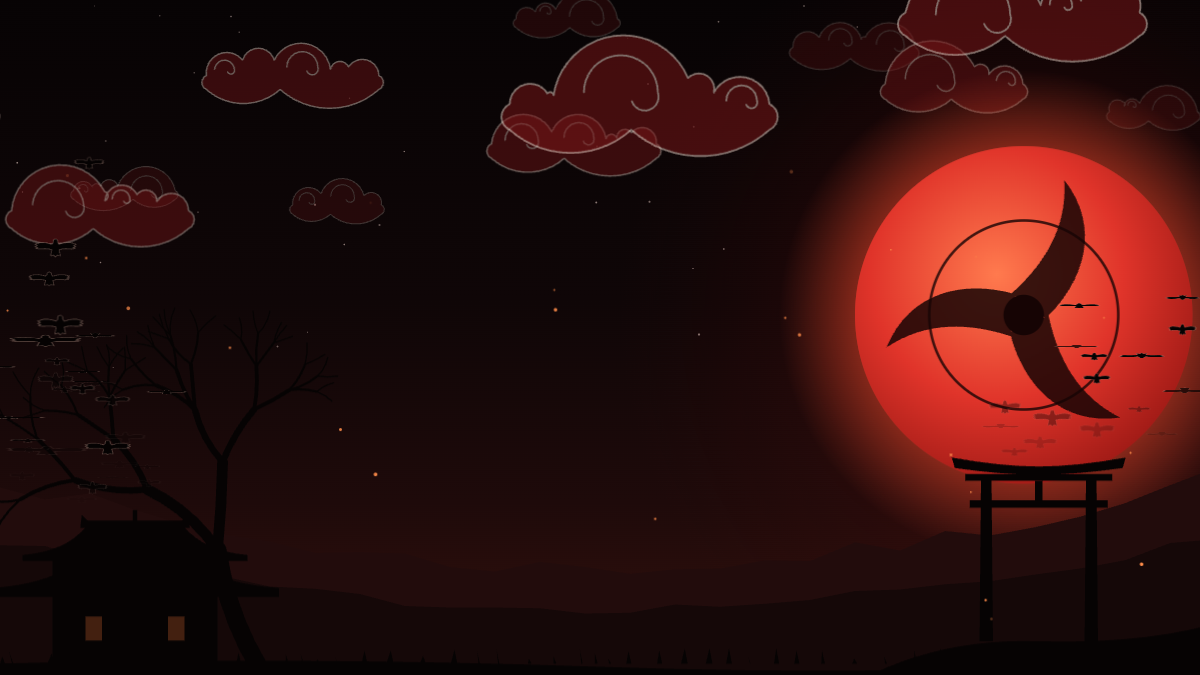
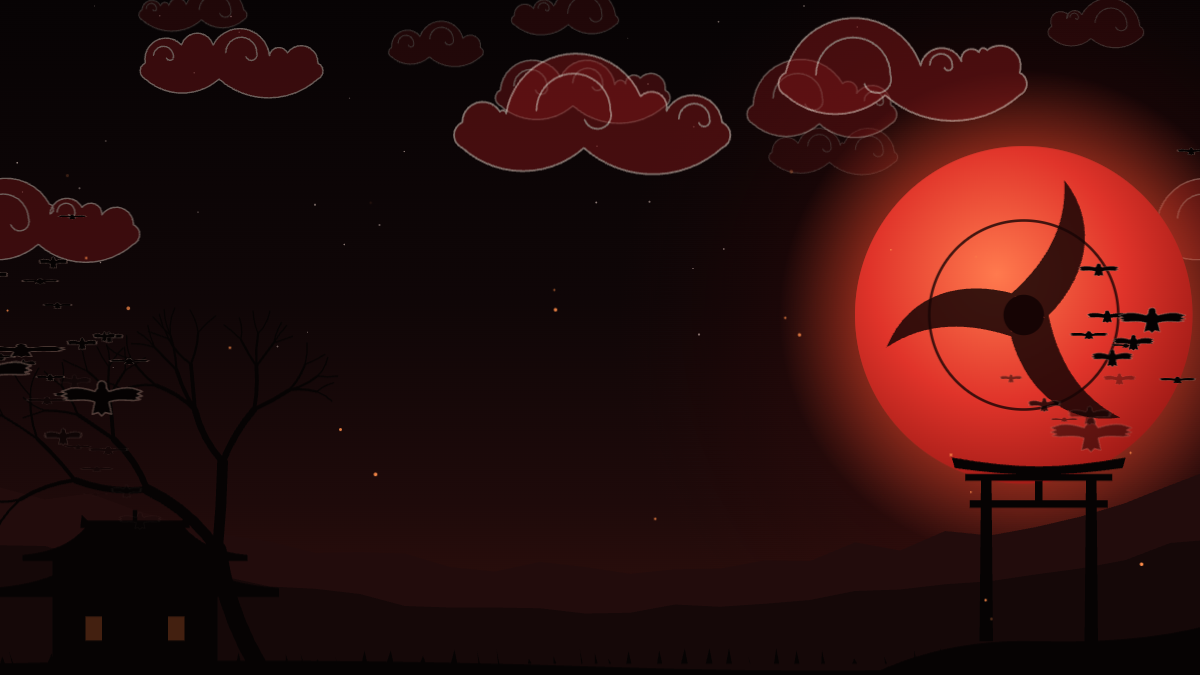
akatsuki-night: embers keep their sway, clouds stay inside the loop, crows take off from their perches

diff --git a/mods/akatsuki-night/hooks/scene/crows.ts b/mods/akatsuki-night/hooks/scene/crows.ts
@@ -6,7 +6,8 @@
 // Desktop limit: a swarm that moved birds with scale() inside path keyframes, cubic-bezier
 // easing or fill-mode `both` froze the whole scene in the desktop app while Chrome played
 // it fine. These move by translate/opacity keyframes with keyword easing only; the
-// wingbeat's scaleY sits on its own element.
+// wingbeat's scaleY sits on its own element, and never flattens past a third, so a small
+// crow mid-beat still reads as a bird and not a dash.
 
 import { seeded, type Random } from './random.js'
 
@@ -47,13 +48,14 @@ export function perched(perches: Point[], leave?: number): { css: string; animat
   }
 }
 
-function keyframes(name: string, points: Point[], at: (n: number) => number): string {
+// Fades in from the first point and out at the last, unless `seen` says it starts in view.
+function keyframes(name: string, points: Point[], at: (n: number) => number, seen = false): string {
   return (
     `@keyframes ${name}{` +
     points
       .map(([x, y], n) => {
-        const edge = n === 0 || n === points.length - 1
-        return `${at(n).toFixed(1)}%{transform:translate(${Math.round(x)}px,${Math.round(y)}px);opacity:${edge ? 0 : 1}}`
+        const hidden = (n === 0 && !seen) || n === points.length - 1
+        return `${at(n).toFixed(1)}%{transform:translate(${Math.round(x)}px,${Math.round(y)}px);opacity:${hidden ? 0 : 1}}`
       })
       .join('')
   )
@@ -75,7 +77,7 @@ export function flock(seed: number, perches: Point[], after: number): Flock {
   let css =
     '.crow{opacity:0}' +
     '.beat{animation:beat .2s ease-in-out infinite alternate;transform-box:fill-box;transform-origin:center}' +
-    '@keyframes beat{0%{transform:scaleY(1)}100%{transform:scaleY(-.3)}}'
+    '@keyframes beat{0%{transform:scaleY(1)}100%{transform:scaleY(.35)}}'
   for (let w = 0; w < WOBBLES; w++) {
     const a = Math.round(r.pick(4, 10))
     const b = Math.round(r.pick(4, 12))
@@ -84,14 +86,17 @@ export function flock(seed: number, perches: Point[], after: number): Flock {
       `50%{transform:translate(-${b}px,${a}px)}75%{transform:translate(${b}px,${a}px)}100%{transform:translate(0px,0px)}}`
   }
 
-  // The burst: every crow lifts off near a perch and climbs away, fanning outward.
+  // The burst: every crow lifts off near a perch and climbs away, fanning outward. The
+  // first one from each perch is the crow that sat there: it leaves from the spot, in full
+  // view, the moment the sitting crow vanishes, so the perches never look empty first.
   const count = Math.round(r.pick(44, 60))
   let svg = ''
   let i = 0
   for (; i < count; i++) {
     const [px, py] = perches[i % perches.length]!
-    const sx = px + r.pick(-40, 40)
-    const sy = py + r.pick(-30, 10)
+    const sitter = i < perches.length
+    const sx = sitter ? px : px + r.pick(-40, 40)
+    const sy = sitter ? py - 10 : py + r.pick(-30, 10)
     // Up and away from the middle, so the chat column clears first.
     const away = sx < 800 ? -1 : 1
     const angle = -Math.PI / 2 + away * r.pick(0.05, 0.95) + r.pick(-0.25, 0.25)
@@ -99,7 +104,7 @@ export function flock(seed: number, perches: Point[], after: number): Flock {
     const ex = sx + Math.cos(angle) * far
     const ey = sy + Math.sin(angle) * far
     const close = r.next() < 0.12
-    const size = close ? r.pick(1.8, 2.6) : r.pick(0.65, 1.35)
+    const size = sitter ? 0.85 : close ? r.pick(1.8, 2.6) : r.pick(0.65, 1.35)
     const duration = close ? r.pick(1.8, 2.6) : r.pick(2.8, 5)
     const path: Point[] = [
       [sx, sy],
@@ -107,8 +112,9 @@ export function flock(seed: number, perches: Point[], after: number): Flock {
       [sx + (ex - sx) * 0.55 + r.pick(-140, 140), sy + (ey - sy) * 0.55 + r.pick(-120, 120)],
       [ex, ey],
     ]
-    css += keyframes(`${k}${i}`, path, n => [0, 18, 60, 100][n]!) + '}'
-    css += `.${k}${i}{animation:${k}${i} ${duration.toFixed(1)}s ease-in ${(after + r.pick(0, 1.1)).toFixed(2)}s 1}`
+    const start = sitter ? after : after + r.pick(0, 1.1)
+    css += keyframes(`${k}${i}`, path, n => [0, 18, 60, 100][n]!, sitter) + '}'
+    css += `.${k}${i}{animation:${k}${i} ${duration.toFixed(1)}s ease-in ${start.toFixed(2)}s 1}`
     svg += bird(r, `${k}${i}`, size)
   }
 

diff --git a/mods/akatsuki-night/tests/look.test.ts b/mods/akatsuki-night/tests/look.test.ts
@@ -1,5 +1,7 @@
 import { expect, mock, test } from 'claude-code/testing'
 
+import { embers } from '../hooks/scene/embers.js'
+
 // The needs-you scene is the only one with the locked pinwheel in the moon.
 const NEEDS_YOU = 'class="wheel"'
 
@@ -29,7 +31,37 @@ test('the backdrop draws the moon scene on desktop, under the size limit', async
   expect(source.length < 131072).toBe(true)
   expect(source).toContain('preserveAspectRatio="xMidYMid slice"')
   expect(source).not.toContain('<script')
+  // The moon, its face and the eye turning in it
+  expect(source).toContain('class="moon"')
+  expect(source).toContain('fill="url(#moonface)"')
+  expect(source).toContain('class="think"')
 })
+
+// A doubled minus ("--18px") makes the browser drop the whole declaration.
+const doubledMinus = (css: string) => css.includes('(--') || /--\d/.test(css)
+
+test('no scene writes a number with a doubled minus', async ($, on) => {
+  for (let seed = 1; seed <= 60; seed++) expect(doubledMinus(embers(seed).css)).toBe(false)
+  on('turn.start', ($, e) => ({ turnId: e.turnId }))
+  on('turn.complete', () => ({ text: '' }))
+  const ui = await $.ui.mount(BACKDROP)
+  const svg = async () => ((await ui.find({ type: 'Svg' })) as any).props.source as string
+  const working = await svg()
+  await $.turn.start({ turnId: 't1', prompt: 'hi' } as any)
+  await done($, 't1')
+  for (const scene of [working, await svg()]) expect(doubledMinus(scene)).toBe(false)
+})
+
+// The body of `@keyframes name`, braces and all.
+function keyframesOf(scene: string, name: string): string {
+  const from = scene.indexOf(`@keyframes ${name}{`)
+  let depth = 0
+  for (let n = scene.indexOf('{', from); n < scene.length; n++) {
+    if (scene[n] === '{') depth++
+    if (scene[n] === '}' && --depth === 0) return scene.slice(from, n + 1)
+  }
+  return ''
+}
 
 test('the needs-you scene shows when a turn ends and goes when the next starts', async ($, on) => {
   on('turn.start', ($, e) => ({ turnId: e.turnId }))
@@ -148,8 +180,19 @@ test('both scenes fit the limit, and none fades a full-size layer', async ($, on
   for (const scene of [working, await svg()]) {
     expect(scene.length < 131072).toBe(true)
     // Desktop stops the whole scene for good once a full-size layer's opacity animates
-    expect(/<rect[^>]*class="[^"]*"[^>]*width="1600"/.test(scene)).toBe(false)
+    for (const [rect] of scene.matchAll(/<rect\b[^>]*>/g)) {
+      const size = (key: string) => Number(new RegExp(`\\b${key}="([\\d.]+)"`).exec(rect)?.[1] ?? 0)
+      if (size('width') >= 1600 && size('height') >= 1000) expect(rect).not.toContain('class=')
+    }
     expect(/<g class="[^"]*"><rect width="1600"/.test(scene)).toBe(false)
+    // The cloud layers span the whole width: they may only move, never fade
+    for (const layer of ['cfar', 'cmid', 'cnear']) {
+      const name = new RegExp(`\\.${layer}\\{animation:([\\w-]+) `).exec(scene)?.[1]
+      expect(name).toBeDefined()
+      const frames = keyframesOf(scene, name!)
+      expect(frames).toContain('transform')
+      expect(frames).not.toContain('opacity')
+    }
   }
 })
 

diff --git a/mods/akatsuki-night/hooks/scene/clouds.ts b/mods/akatsuki-night/hooks/scene/clouds.ts
@@ -2,8 +2,9 @@
 // layers that drift right to left at their own speeds. Pure: the same seed draws the same sky.
 //
 // Each layer is drawn once across the 1600 width and again just right of it, then carried
-// one width left on a loop, so it wraps with no seam. No cloud crosses the right edge of
-// its own copy, or it would pop in at the left.
+// one width left on a loop, so it wraps with no seam. A cloud's end caps and outline reach
+// a little past its nominal width, so every cloud keeps a margin (`reach`) inside both
+// edges of its copy: none crosses an edge, so none pops in or out as the loop resets.
 
 import { seeded, type Random } from './random.js'
 
@@ -53,14 +54,21 @@ function cloud(r: Random, w: number, h: number): { outline: string; curls: strin
   return { outline, curls }
 }
 
+// How far a cloud can reach past 0 and `w` on either side: its end caps bulge about a
+// tenth of its height, a steep first or last lobe a little more, then half the stroke.
+// Generous on purpose, so no cloud's edge can reach the seam.
+const reach = (w: number, h: number, stroke: number) => h * 0.25 + w * 0.02 + stroke
+
 function layer(r: Random, l: Layer): string {
   const slot = 1600 / l.count
   let svg = ''
   for (let n = 0; n < l.count; n++) {
     const w = r.pick(l.w[0], l.w[1])
-    const x = Math.min(slot * n + r.pick(0, slot * 0.7), 1600 - w)
+    const h = r.pick(l.h[0], l.h[1])
+    const pad = reach(w, h, l.stroke)
+    const x = Math.min(Math.max(slot * n + r.pick(0, slot * 0.7), pad), 1600 - w - pad)
     const y = r.pick(l.y[0], l.y[1])
-    const c = cloud(r, w, r.pick(l.h[0], l.h[1]))
+    const c = cloud(r, w, h)
     svg +=
       `<g transform="translate(${f(x)} ${f(y)})"><path d="${c.outline}"/>` +
       `<path d="${c.curls}" fill="none" stroke-linecap="round"/></g>`

diff --git a/mods/akatsuki-night/hooks/scene/embers.ts b/mods/akatsuki-night/hooks/scene/embers.ts
@@ -18,11 +18,14 @@ export function embers(seed: number): Embers {
     const sway = Math.round(r.pick(20, 60))
     const drift = Math.round(r.pick(120, 260))
     const rise = Math.round(r.pick(420, 700))
+    // Numbers are worked out first and written with their own sign: a sway larger than
+    // the drift so far swings right, and "--18px" would drop the whole stop.
+    const at = (x: number, y: number) => `transform:translate(${Math.round(x)}px,${Math.round(y)}px)`
     css +=
-      `@keyframes rise${p}{0%{transform:translate(0px,0px);opacity:0}12%{opacity:1}` +
-      `40%{transform:translate(-${Math.round(drift * 0.35) - sway}px,-${Math.round(rise * 0.4)}px)}` +
-      `70%{transform:translate(-${Math.round(drift * 0.7) + sway}px,-${Math.round(rise * 0.7)}px);opacity:.8}` +
-      `100%{transform:translate(-${drift}px,-${rise}px);opacity:0}}` +
+      `@keyframes rise${p}{0%{${at(0, 0)};opacity:0}12%{opacity:1}` +
+      `40%{${at(sway - drift * 0.35, -rise * 0.4)}}` +
+      `70%{${at(-drift * 0.7 - sway, -rise * 0.7)};opacity:.8}` +
+      `100%{${at(-drift, -rise)};opacity:0}}` +
       `.rise${p}{animation:rise${p} 12s linear infinite}`
   }
   let sparks = ''

diff --git a/mods/akatsuki-night/hooks/look.ts b/mods/akatsuki-night/hooks/look.ts
@@ -16,8 +16,8 @@ const { theme, problems } = makeColors({
     gray: {
       anchors: {
         'surface-0': '#0d0909',
-        'surface-1': '#130d0d',
-        'surface-2': '#191212',
+        'surface-1': '#150f0f',
+        'surface-2': '#1c1414',
         'surface-3': '#1f1616',
         'text-primary': '#efe5e1',
         'text-secondary': '#c8bab4',
